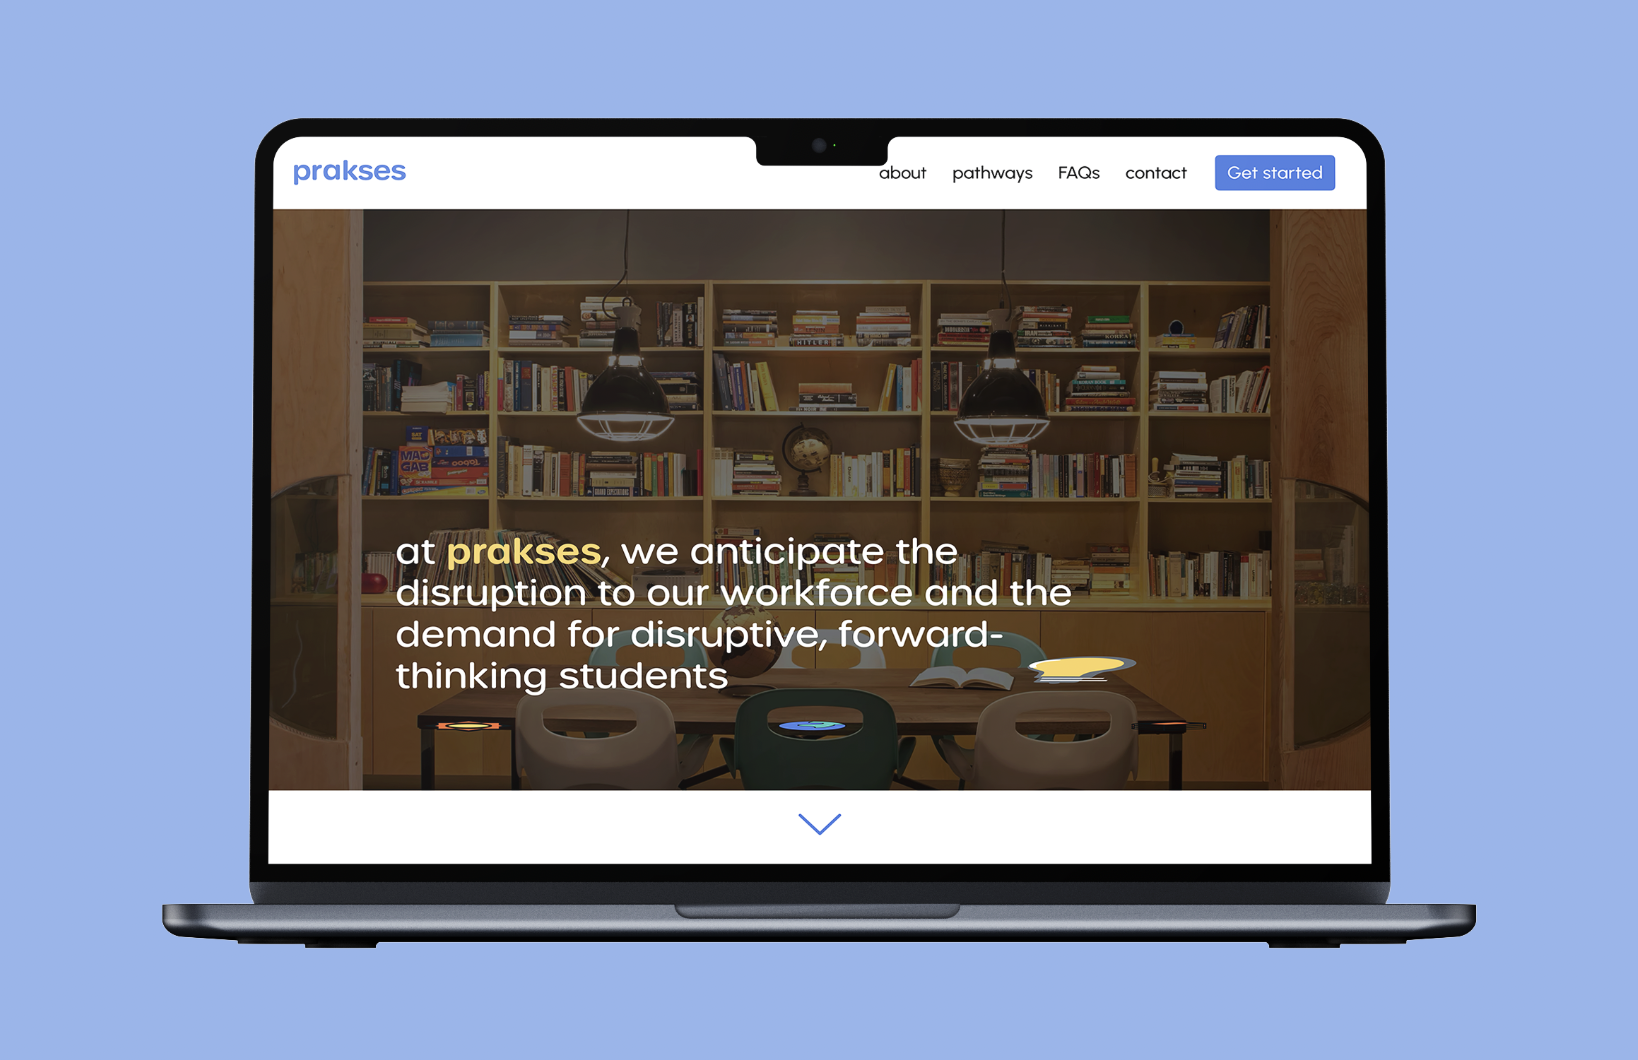
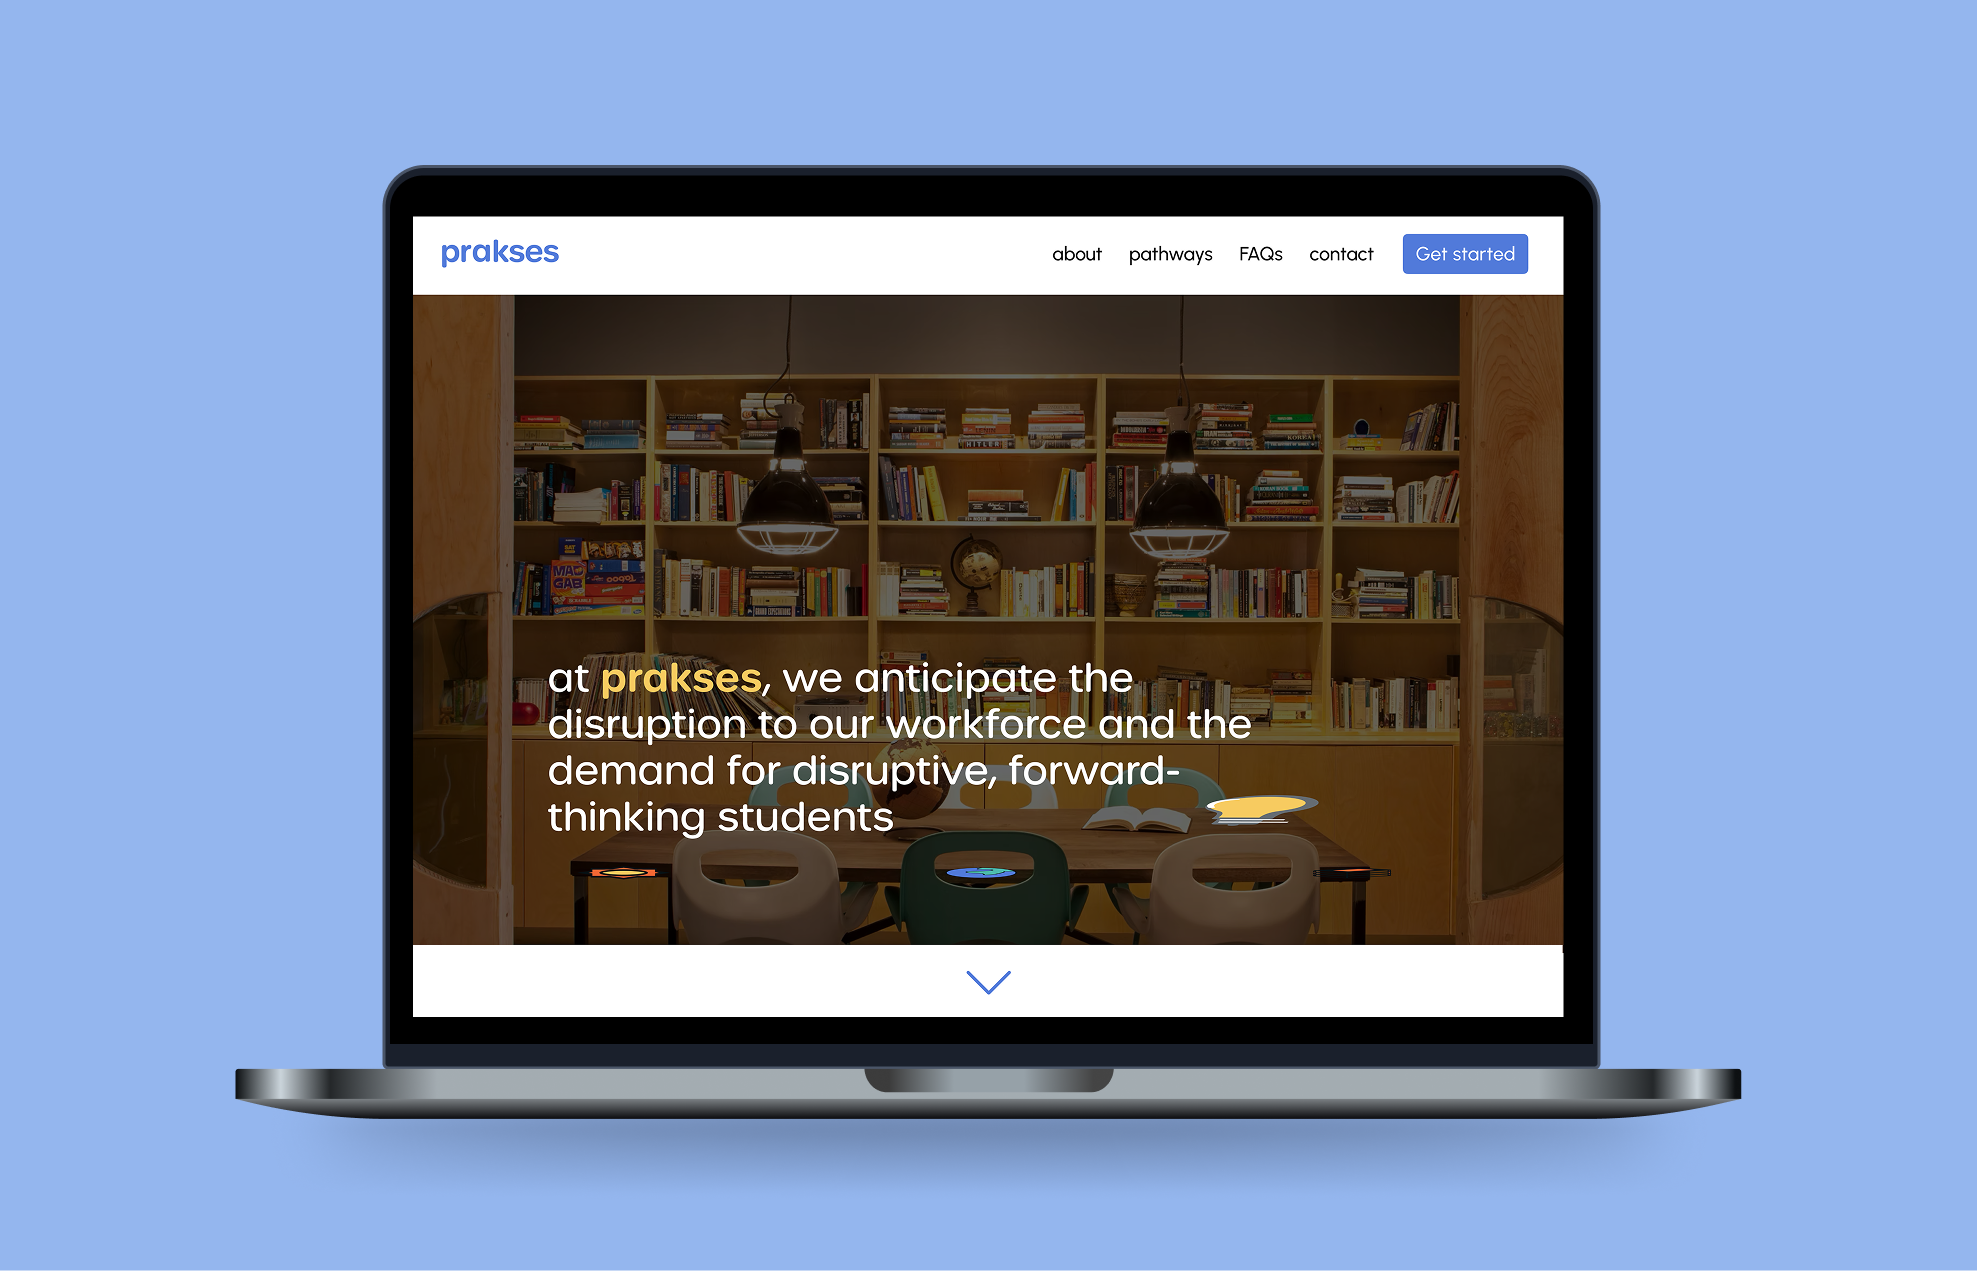
smaller images

diff --git a/projects/prakses.css b/projects/prakses.css
@@ -1178,14 +1178,14 @@ img[src="images/prakses/prakses branding.png"] {
 
 }
 
-img[src="images/prakses/low-fi wireframes.png"] {
+img[src="images/prakses/lofi wireframes 1.png"] {
     width: 100%;
     height: auto; 
 
 }
 
 
-img[src="images/prakses/hifi wireframes.png"] {
+img[src="images/prakses/hifi wireframe.png"] {
     width: 100%;
     height: auto; 
 

diff --git a/projects/prakses.html b/projects/prakses.html
@@ -343,7 +343,7 @@
 
                                 <figure>
 
-                                    <img src="images/prakses/low-fi wireframes.png">
+                                    <img src="images/prakses/lofi wireframes 1.png">
                                 </figure>
                                 <br>
 
@@ -396,7 +396,7 @@
                                     </div>
                                     <figure>
 
-                                        <img src="images/prakses/hifi wireframes.png">
+                                        <img src="images/prakses/hifi wireframe.png">
                                     </figure>
                                     <br>
 

diff --git a/projects.html b/projects.html
@@ -66,7 +66,7 @@
             <div class="projects" id="projectLockIn">
                 <figure>
                     <div class="card">
-                        <img src="images/lock in 2.png">
+                        <img src="images/lock in cover.png">
                     </div>
                 </figure>
 